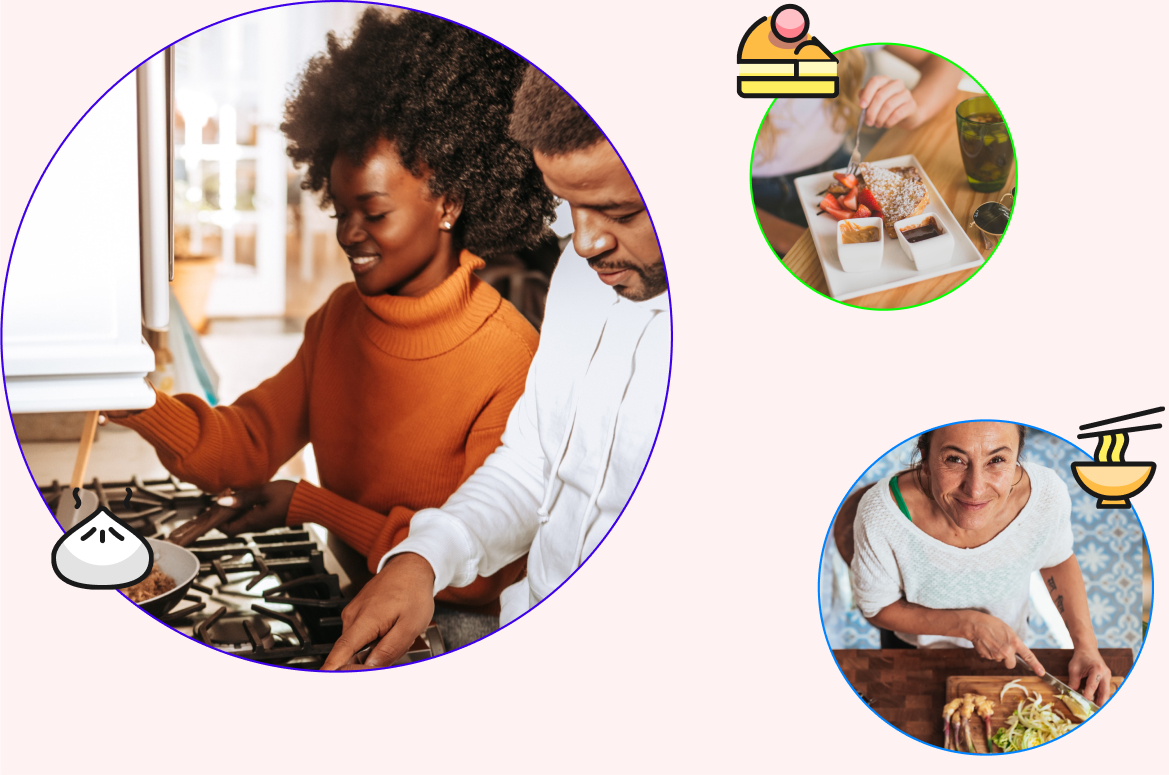
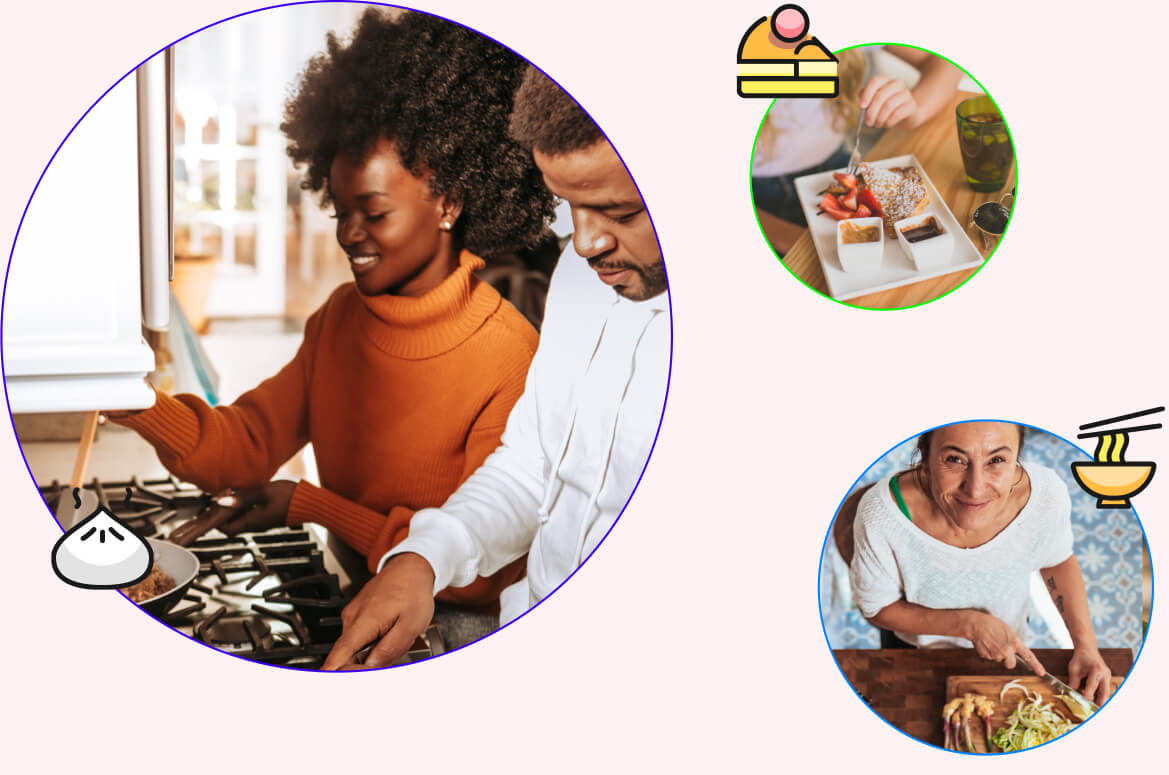
upload compressed images for better performance

diff --git a/templates/base.html b/templates/base.html
@@ -78,10 +78,10 @@
                         </a>
                     </li>
                     {% else %}
-                    <li class="nav-item nav-item-space">
+                    <li class="nav-item nav-item-space align-self-center">
                         <a class="nav-link" href="{% url 'account_login' %}">Sign In</a>
                     </li>
-                    <li class="nav-item nav-item-space">
+                    <li class="nav-item nav-item-space align-self-center">
                         <a class="btn btn-outline-primary" href="{% url 'account_signup' %}">Sign Up</a>
                     </li>
                     {% endif %}
